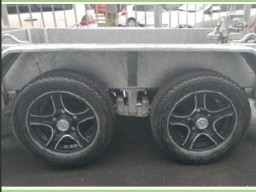
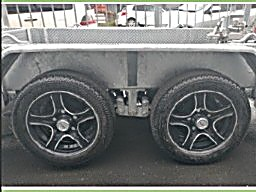
Swap boat trailer imagery to gt-trailers-15; add gt-trailers gallery assets
Point hero slider and boat trailers card at images/gt-trailers-15.png. Include related gt-trailers image set, refreshed accessory photos, and CSS updates.

Made-with: Cursor

diff --git a/index.html b/index.html
@@ -81,7 +81,7 @@
                 </div>
             </div>
             <div class="slide">
-                <div class="slide-image" style="background-image: url('images/SetWidth313-boattrailors46.png');"></div>
+                <div class="slide-image" style="background-image: url('images/gt-trailers-15.png');"></div>
                 <div class="slide-content">
                     <div class="container">
                         <span class="slide-subtitle">Specialised Boat Trailers</span>
@@ -263,7 +263,7 @@
             <div class="services-grid">
                 <div class="service-card">
                     <div class="service-image">
-                        <img src="images/SetWidth313-boattrailors46.png" alt="Boat Trailers">
+                        <img src="images/gt-trailers-15.png" alt="Boat Trailers">
                     </div>
                     <div class="service-content">
                         <h3>Boat Trailers</h3>

diff --git a/css/style.css b/css/style.css
@@ -877,14 +877,15 @@ p {
 }
 
 .service-image {
-    height: 250px;
+    height: 480px;
     overflow: hidden;
+
 }
 
 .service-image img {
     width: 100%;
     height: 100%;
-    object-fit: cover;
+    object-fit: contain;
     transition: var(--transition);
 }
 
@@ -893,7 +894,7 @@ p {
 }
 
 .service-content {
-    padding: 30px;
+    padding: 0px 30px;
 }
 
 .service-content h3 {
